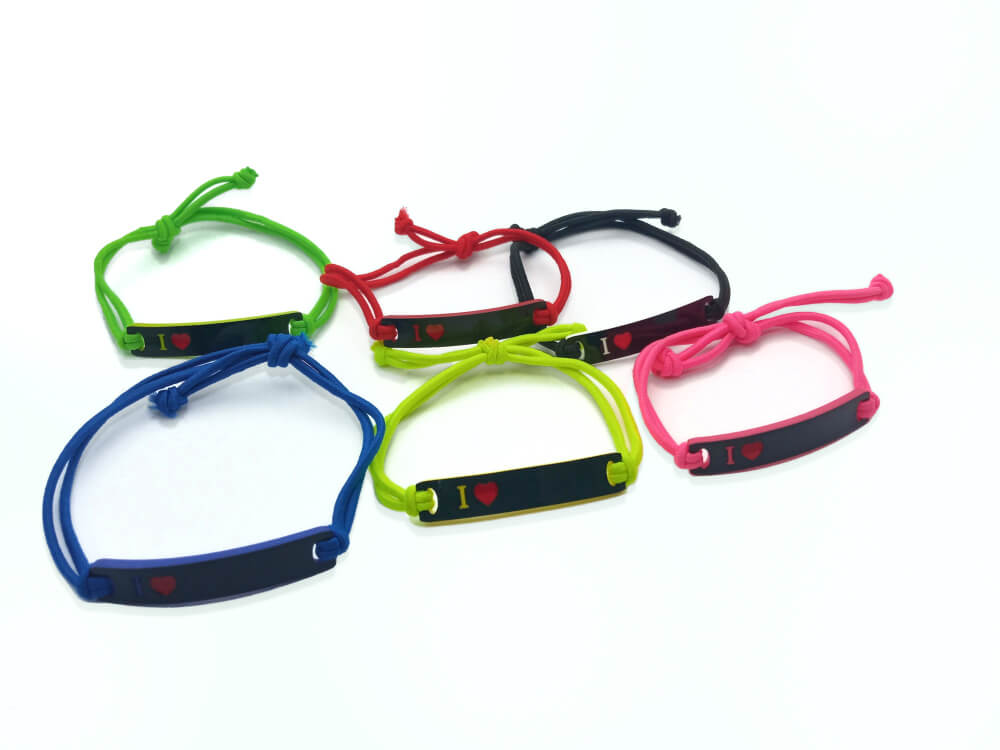
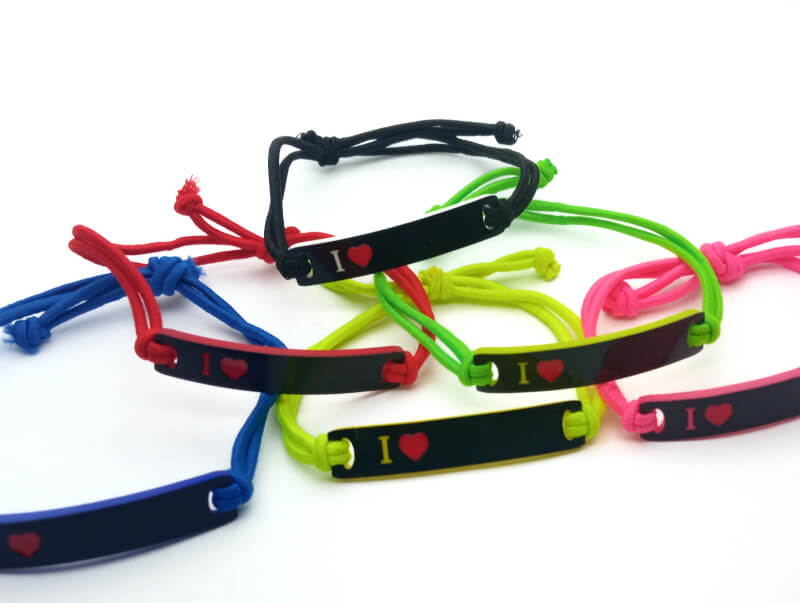
updated product #224

diff --git a/src/data/productsData.js b/src/data/productsData.js
@@ -2438,7 +2438,7 @@ export const productsData = [
     id: 224,
     category: "bransoletki",
     image: "/images/Bransoletki/09.jpg",
-    slider_images: ["/images/Bransoletki/09.jpg"],
+    slider_images: ["/images/Bransoletki/09.jpg", "/images/Bransoletki/10.jpg"],
     indeks_pc: "DK37 020A1",
     identyfikator: "DK37 020A1",
     opis: "Bransoletka dziecięca na gumce. Dostępna w 6 kolorach ze wzorem I ❤ , oraz miejscem na grawer.",
